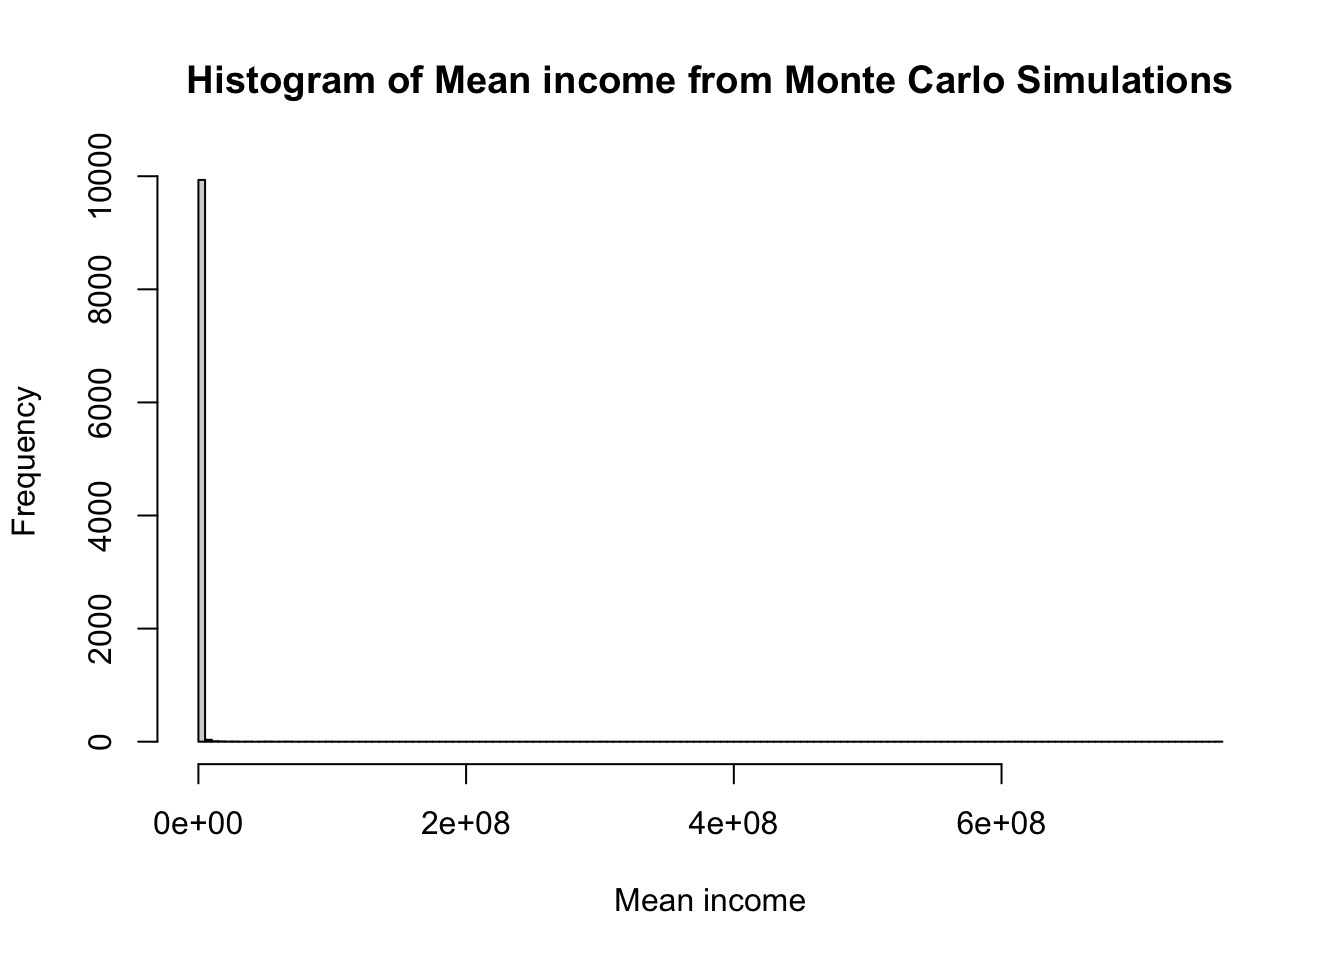
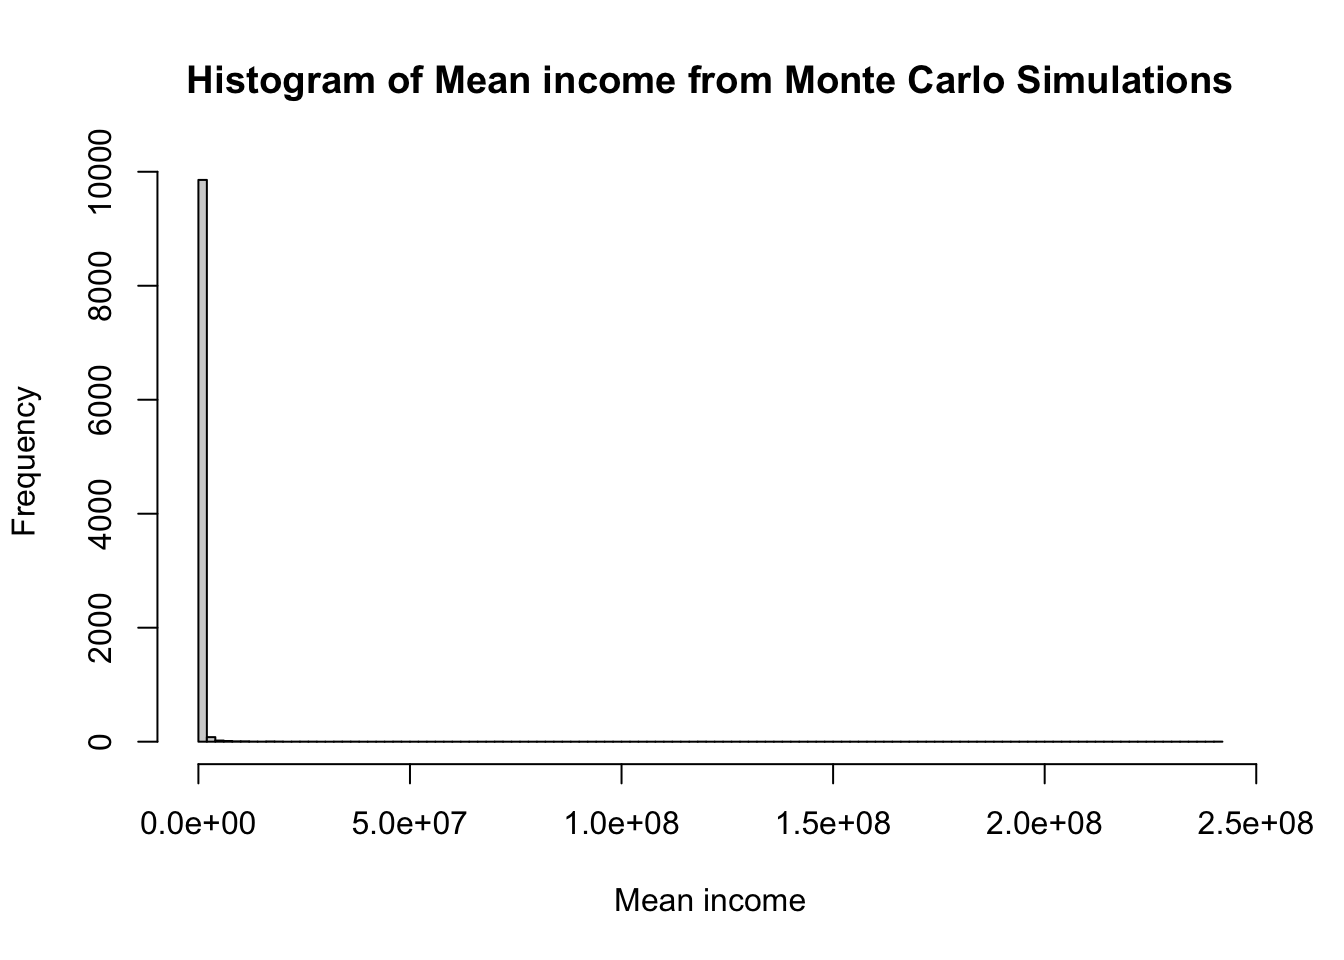
29924 3

diff --git a/docs/posts/montecarlo.html b/docs/posts/montecarlo.html
@@ -1078,7 +1078,7 @@ Income distribution is not normal
 </details>
 <div class="cell-output cell-output-stdout">
 <pre><code>     Min.   1st Qu.    Median      Mean   3rd Qu.      Max. 
-   208740    294932    342587    718573    436070 764656028 </code></pre>
+   208220    295737    342247    534466    432617 241949220 </code></pre>
 </div>
 <details open="" class="code-fold">
 <summary>Code</summary>
@@ -1086,7 +1086,7 @@ Income distribution is not normal
 </details>
 <div class="cell-output cell-output-stdout">
 <pre><code>   Min. 1st Qu.  Median    Mean 3rd Qu.    Max. 
-  62025   64062   64500   64499   64930   67109 </code></pre>
+  62006   64068   64500   64507   64930   67103 </code></pre>
 </div>
 <details open="" class="code-fold">
 <summary>Code</summary>
@@ -1094,7 +1094,7 @@ Income distribution is not normal
 </details>
 <div class="cell-output cell-output-stdout">
 <pre><code>     Min.   1st Qu.    Median      Mean   3rd Qu.      Max. 
-9.854e+05 3.286e+06 5.567e+06 4.250e+07 1.188e+07 7.643e+10 </code></pre>
+9.379e+05 3.311e+06 5.578e+06 2.408e+07 1.147e+07 2.417e+10 </code></pre>
 </div>
 </div>
 </section>

diff --git a/docs/Revision notes/Adult pathology/Fragility.html b/docs/Revision notes/Adult pathology/Fragility.html
@@ -910,7 +910,7 @@ cookieconsent.run({
 </section>
 <section id="barbell-approach" class="level2">
 <h2 class="anchored" data-anchor-id="barbell-approach">Barbell approach</h2>
-<p>It is fair to assume that our genes have not yet evolved enough to process an abundance of food and a total lack of physical exertion. Cavemen were accustomed to bouts of physical exertion (for food, mates, and escaping enemies) and sporadic feasts with prolonged periods of an empty stomach.</p>
+<p>It is fair to assume that our genes have not yet evolved enough to process an abundance of food and a total lack of physical exertion. Nor are they familiar enough with lack of variety in food and excessive round the clock stress. Cavemen were accustomed to bouts of physical exertion (for food, mates, and escaping enemies) and sporadic feasts with prolonged periods of an empty stomach.</p>
 <p>Emulating eating and exercise patterns in line with our ancestors could be promising.</p>
 
 

diff --git a/docs/Revision notes/Diagrams/diagrams.html b/docs/Revision notes/Diagrams/diagrams.html
@@ -1357,7 +1357,7 @@ window.document.addEventListener("DOMContentLoaded", function (event) {
 </div>
   </div>
 </footer>
-<script>var lightboxQuarto = GLightbox({"descPosition":"bottom","openEffect":"zoom","selector":".lightbox","closeEffect":"zoom","loop":false});
+<script>var lightboxQuarto = GLightbox({"loop":false,"openEffect":"zoom","descPosition":"bottom","closeEffect":"zoom","selector":".lightbox"});
 window.onload = () => {
   lightboxQuarto.on('slide_before_load', (data) => {
     const { slideIndex, slideNode, slideConfig, player, trigger } = data;

diff --git a/docs/Biomedical/Research Methodology/wrangling.html b/docs/Biomedical/Research Methodology/wrangling.html
@@ -2377,8 +2377,8 @@ Record
 2:     2     1  child
 3:     3     0  child
 4:     4     1  child
-5:     5     1  child
-6:     6     1  child</code></pre>
+5:     5     0  child
+6:     6     0  child</code></pre>
 </div>
 </div>
 <section id="making-data-wide" class="level3">
@@ -2400,8 +2400,8 @@ Record
 2:     2   &lt;NA&gt;  child
 3:     3  child   &lt;NA&gt;
 4:     4   &lt;NA&gt;  child
-5:     5   &lt;NA&gt;  child
-6:     6   &lt;NA&gt;  child</code></pre>
+5:     5  child   &lt;NA&gt;
+6:     6  child   &lt;NA&gt;</code></pre>
 </div>
 </div>
 
